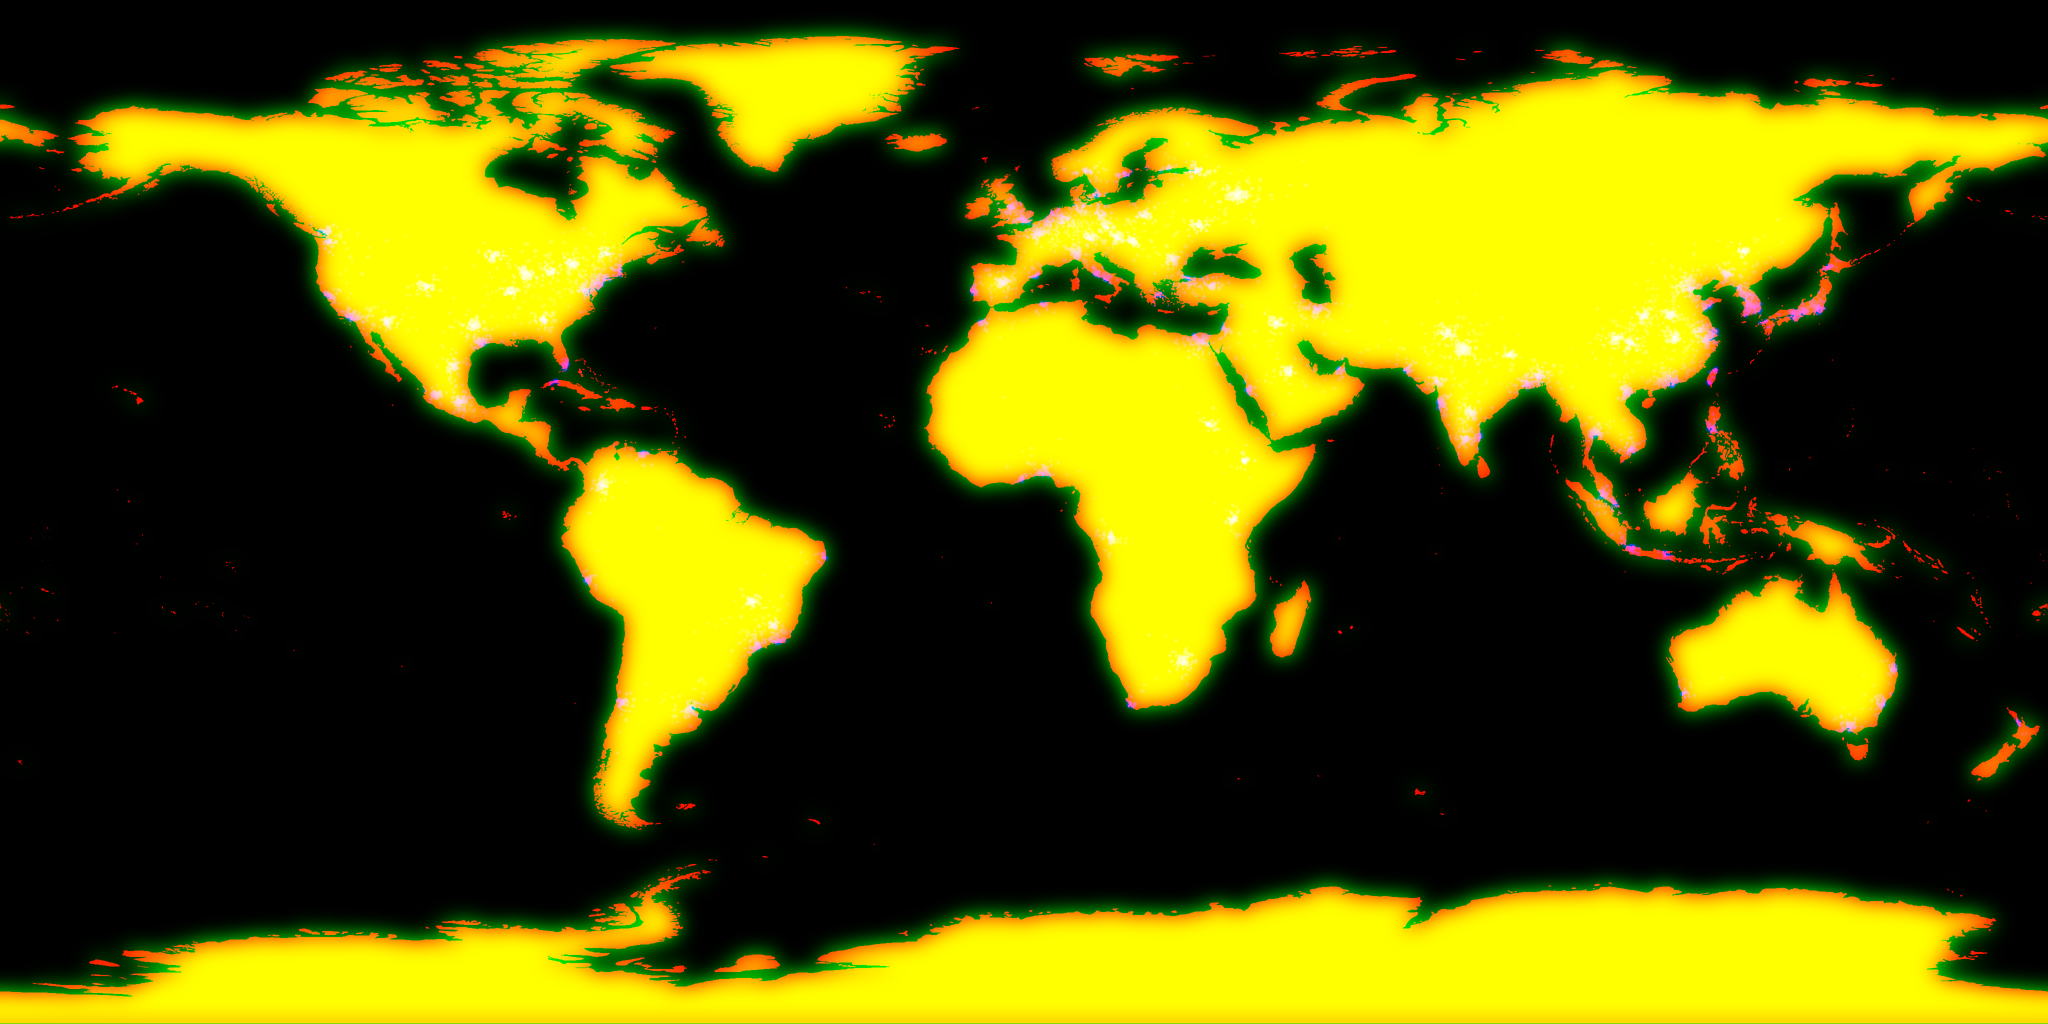
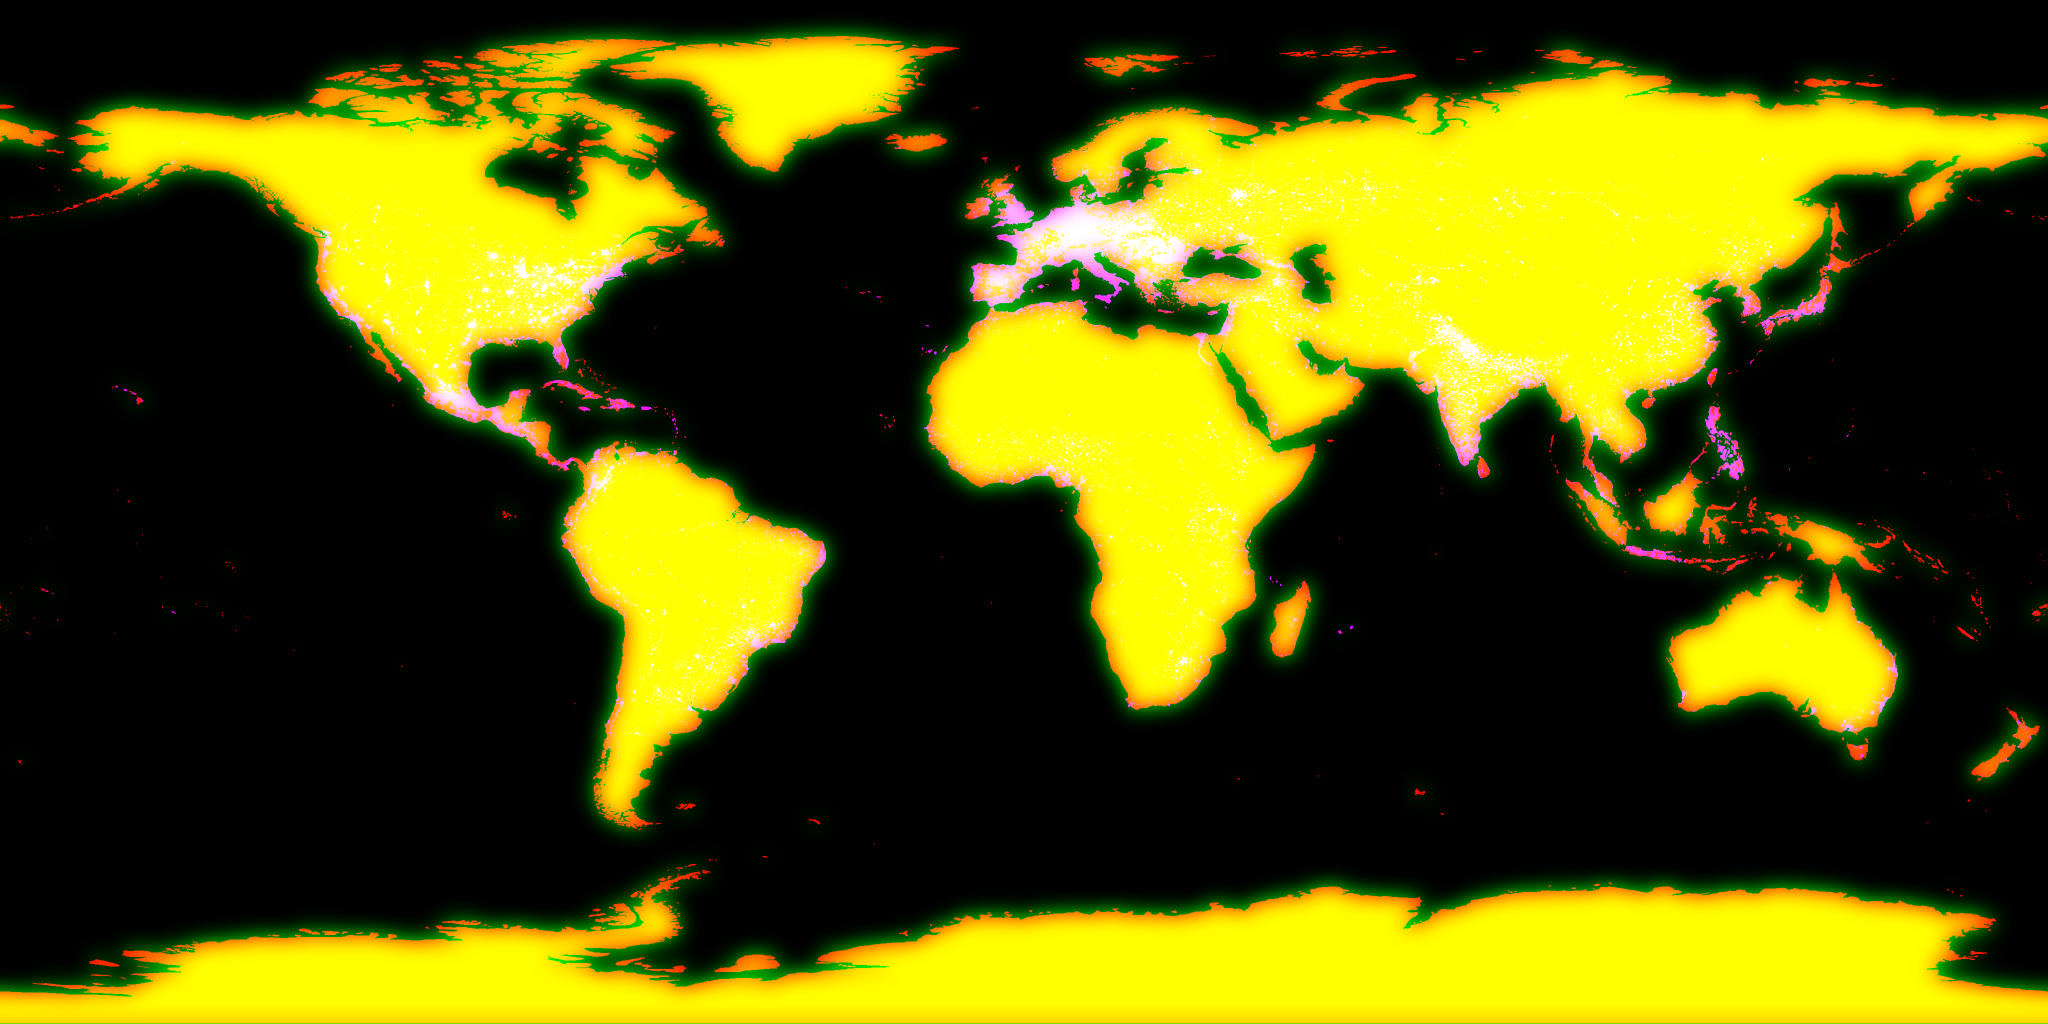
v11.19-194: real-town earth night lights
Claude-Session: https://claude.ai/code/session_018hh8FEL3VP19jVETTWTz87

diff --git a/index.html b/index.html
@@ -415,6 +415,7 @@ button:focus-visible{outline:2px solid var(--glow);outline-offset:2px}
         <li>배경 피아노: Serge Quadrado, “Piano for Meditation” (Pixabay)</li>
         <li>서울 하늘 지도: © OpenStreetMap contributors (ODbL)</li>
         <li>지구 지도: Natural Earth (world-atlas, Mike Bostock, ISC)</li>
+        <li>지구 밤 불빛 마을 자료: GeoNames (CC BY 4.0), all-the-cities (MIT)</li>
         <li>서울 밤하늘·우주의 별 자료: Hipparcos 목록, d3-celestial (Olaf Frohn, BSD-3-Clause)</li>
         <li>바다 생물 3D 모델(고래·상어·만타가오리·돌고래·물고기): Quaternius (quaternius.com, CC0)</li>
       </ul>
@@ -461,7 +462,7 @@ setTimeout(function(){
 
 <script>
 /* 판 번호: 고칠 때마다 바뀜. 공개 주소에서는 더 새 판이 올라와 있으면 저절로 새로 불러옴 (브라우저에 남은 예전 화면 대신) */
-const BUILD = '11.19-193';
+const BUILD = '11.19-194';
 document.addEventListener('DOMContentLoaded', () => { const t = document.getElementById('buildTag'); if (t) t.textContent = 'v' + BUILD; });
 if (/github\.io$/.test(location.hostname)) {
   fetch(location.pathname + '?check=' + Date.now(), { cache: 'no-store' }).then(r => r.text()).then(html => {
@@ -5890,7 +5891,7 @@ function buildSpace() {
   const sunU = { value: new THREE.Vector3(0.88, 0.3, -0.36).normalize() };
   // 실제 지구 지도 (오대양 육대주): R=땅, G=해안 가까움(번진 땅), B=실제 큰 도시들 둘레의 밤 불빛. Natural Earth 자료(world-atlas)로 만든 그림
   const earthMapU = { value: null }, earthHasU = { value: 0 };
-  new THREE.TextureLoader().load('earth-map.png?v=1', t => { t.wrapS = THREE.RepeatWrapping; t.generateMipmaps = false; t.minFilter = THREE.LinearFilter; t.colorSpace = THREE.NoColorSpace; t.needsUpdate = true; earthMapU.value = t; earthHasU.value = 1; });
+  new THREE.TextureLoader().load('earth-map.png?v=2', t => { t.wrapS = THREE.RepeatWrapping; t.generateMipmaps = false; t.minFilter = THREE.LinearFilter; t.colorSpace = THREE.NoColorSpace; t.needsUpdate = true; earthMapU.value = t; earthHasU.value = 1; });
   const earthMat = new THREE.ShaderMaterial({
     uniforms: { uSun: sunU, uMap: earthMapU, uHas: earthHasU }, vertexShader: VS, fog: false,
     fragmentShader: `uniform vec3 uSun; uniform sampler2D uMap; uniform float uHas; varying vec3 vObj; varying vec3 vWN; varying vec3 vWP;
@@ -5934,14 +5935,14 @@ function buildSpace() {
         float region = smoothstep(0.5, 0.74, fbm(p * 4.3 + vec3(11.0, 3.0, 7.0), 4)) * (0.45 + 0.9 * coastNear);
         float temperate = smoothstep(0.78, 0.35, lat) * smoothstep(0.0, 0.12, lat + 0.06);
         float grain = smoothstep(0.66, 0.96, vn(p * 260.0)) + 0.8 * smoothstep(0.72, 0.97, vn(p * 540.0 + 3.0)) + 0.55 * smoothstep(0.78, 0.98, vn(p * 1100.0 + 7.0));   // 멀리서 본 서울 야경처럼 아주 잘고 촘촘한 불빛 알갱이
-        float city = land * (1.0 - ice) * mix(temperate * clamp(region * (0.22 + grain * 1.6), 0.0, 1.8), clamp(M.b * (0.35 + grain * 1.3), 0.0, 1.8), uHas);   // 실제 큰 도시 둘레에 점점이 모인 불빛
+        float city = land * (1.0 - ice) * mix(temperate * clamp(region * (0.22 + grain * 1.6), 0.0, 1.8), M.b * (0.85 + 0.3 * vn(p * 400.0)) * 1.5, uHas);   // 실제 마을·도시 13만여 곳과 그 사이를 잇는 길 불빛 (GeoNames)
         float nightK = 1.0 - smoothstep(-0.15, 0.08, nl);
         // 서울 야경처럼: 주황 가로등 빛 바탕에 하얀·노란 불빛 알갱이, 군데군데 푸르스름한 흰빛. 도시 둘레엔 은은한 주황 빛무리
         float tint = vn(p * 60.0 + 5.0);
         vec3 lc = mix(vec3(1.0, 0.6, 0.24), vec3(1.0, 0.82, 0.48), smoothstep(0.3, 0.7, tint));   // 주황 가로등 ~ 노란 불빛
-        lc = mix(lc, vec3(1.0, 0.96, 0.86), smoothstep(0.55, 1.1, grain) * 0.7);                   // 밝은 알갱이는 하얗게
+        lc = mix(lc, vec3(1.0, 0.96, 0.86), mix(smoothstep(0.55, 1.1, grain) * 0.7, smoothstep(0.35, 0.9, M.b), uHas));   // 밝은 도심은 하얗게
         lc = mix(lc, vec3(0.84, 0.9, 1.0), smoothstep(0.86, 0.97, tint) * 0.5);                    // 군데군데 푸르스름한 흰빛
-        float halo = land * (1.0 - ice) * mix(temperate * region * 0.3, M.b * 0.35, uHas);
+        float halo = land * (1.0 - ice) * mix(temperate * region * 0.3, 0.0, uHas);
         col += (lc * city + vec3(1.0, 0.55, 0.22) * halo) * nightK * 0.95;
         // 바다에 비친 해 (반짝임)
         vec3 H = normalize(L + V); float nh = max(dot(N, H), 0.0), spec = (pow(nh, 320.0) * 0.7 + pow(nh, 24.0) * 0.06) * (1.0 - land) * (1.0 - ice) * day;
